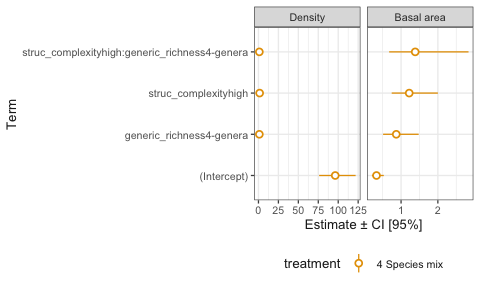
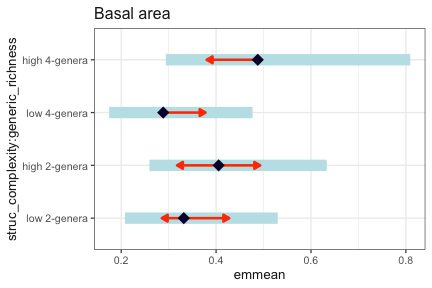
Remove 4-sp coef figure

Changed region(s): [[0.0, 0.0, 0.9931, 0.9688], [0.8125, 0.3125, 0.9028, 0.3438]]

diff --git a/code/notebooks/2026-08-28_ba-dens-models.md b/code/notebooks/2026-08-28_ba-dens-models.md
@@ -1,6 +1,6 @@
 # Basal area and density models
 eleanorjackson
-10 September, 2026
+16 September, 2026
 
 - [1. Including all plots](#1-including-all-plots)
   - [Results](#results)
@@ -878,32 +878,6 @@ Borderline DHARMa test for the basal area model `m5`, but I think this
 is due to the outlier in the 4-genera, high complexity group rather than
 true heteroscedasticity.
 
-``` r
-results_3 |>
-    unnest(tidy) |>
-    mutate(
-        name = fct_relevel(
-            name,
-            "Density"
-        ),
-        treatment = "4-species"
-    ) |>
-    ggplot(aes(
-        x = term,
-        y = estimate,
-        ymin = conf.low,
-        ymax = conf.high,
-        colour = treatment
-    )) +
-    geom_pointrange(shape = 21, fill = "white") +
-    labs(x = "Term", y = "Estimate ± CI [95%]") +
-    coord_flip() +
-    scale_colour_sbe() +
-    facet_grid(~name, scales = "free_x")
-```
-
-![](figures/2026-08-28_ba-dens-models/unnamed-chunk-37-1.png)
-
 ### Results
 
 ``` r
@@ -954,7 +928,7 @@ plot(
     theme_sbe()
 ```
 
-![](figures/2026-08-28_ba-dens-models/unnamed-chunk-38-1.png)
+![](figures/2026-08-28_ba-dens-models/unnamed-chunk-37-1.png)
 
 - Basal area
   - At two genera, basal area under high canopy complexity was estimated
@@ -1021,7 +995,7 @@ plot(
     theme_sbe()
 ```
 
-![](figures/2026-08-28_ba-dens-models/unnamed-chunk-39-1.png)
+![](figures/2026-08-28_ba-dens-models/unnamed-chunk-38-1.png)
 
 - Seedling density
   - At two genera, seedling density under high canopy complexity was
